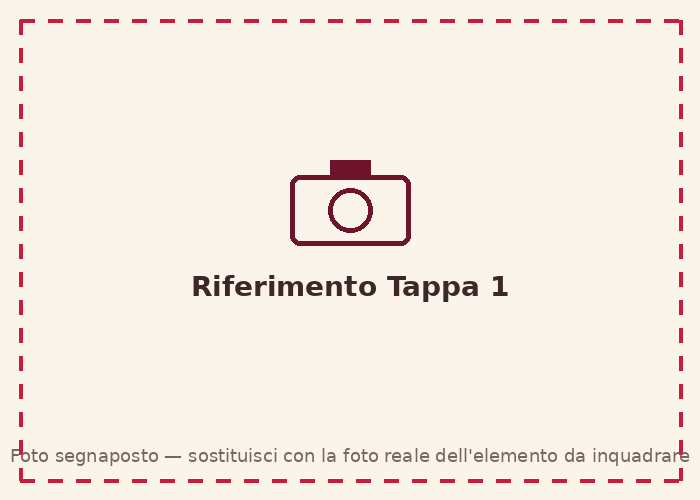
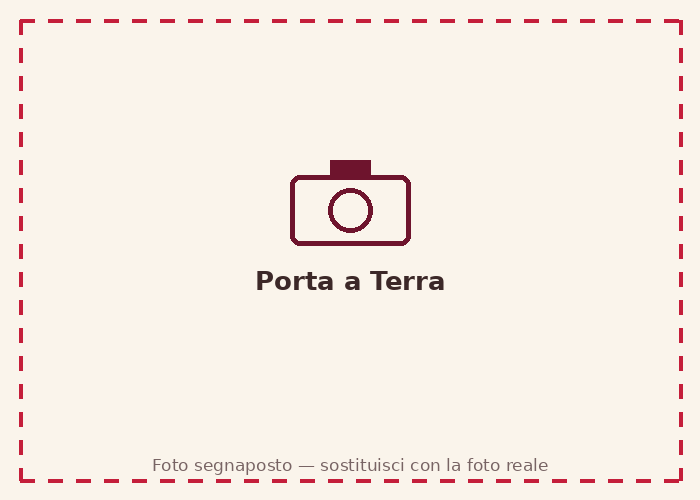
Inserisce le 4 tappe reali a Otranto con coordinate GPS vere
- aggiunta la Tappa 4 (Cattedrale) mancante: ora sono 4 tappe reali
  (Porta a Terra, Monumento eroi e martiri 1480, lampione sul
  Lungomare degli Eroi, Cattedrale) + traguardo finale (Aromisia)
- tutte le coordinate GPS sono ora quelle reali fornite dall'utente
  (CONFIG.testMode = false, nessuna più auto-calibrata)
- la Tappa 1 non ha percorso a mappa: si trova solo con l'indovinello
  iniziale, come da disegno del percorso reale
- testi degli indizi inseriti e corretti leggermente (punteggiatura/
  refusi) rispetto alle bozze fornite
- rigenerati i placeholder di percorso (4 tratti dopo la Tappa 1) e
  le foto di riferimento (ora etichettate con il soggetto reale,
  ancora da sostituire con le foto vere)
- aggiornato sw.js con i nuovi nomi file e bump di versione cache

Verificato con test end-to-end via Playwright simulando tutte e 5 le
coordinate reali in sequenza: tutte le tappe si sbloccano
correttamente, il nome del negozio non compare mai prima dello scan
finale riuscito.

Changed region(s): [[0.0, 0.9, 0.99, 0.96], [0.27, 0.54, 0.72, 0.6]]

diff --git a/js/data.js b/js/data.js
@@ -1,38 +1,35 @@
 // =============================================================
 // data.js — TUTTI I CONTENUTI DELLA CACCIA AL TESORO
 // =============================================================
-// Questo è l'UNICO file che andrà modificato per passare dai
-// contenuti di TEST a quelli REALI (indizi, coordinate, immagini
-// dei percorsi, negozio finale). Il resto del codice non cambia.
+// Questo è l'UNICO file che andrà modificato per i contenuti del
+// gioco (indizi, coordinate, immagini dei percorsi, negozio finale).
+// Il resto del codice non cambia.
 //
-// MODALITÀ TEST vs REALE
-// -----------------------
-// CONFIG.testMode = true  → ogni tappa che ha
-//     gps.useCurrentLocationAsTarget = true
-//   NON usa coordinate fisse: la prima volta che l'app chiede la
-//   posizione in quella tappa, "fotografa" la posizione attuale e
-//   la userà come bersaglio per il controllo GPS di quella tappa
-//   in questa sessione. Così puoi testare TUTTO il flusso reale
-//   (permessi, GPS, fotocamera, animazioni, fallback) restando
-//   dove ti trovi ora, senza dover raggiungere i luoghi veri.
+// Percorso reale (Otranto):
+//   Indizio iniziale (nessuna mappa, solo l'indovinello) → Tappa 1
+//   (Porta a Terra) → mappa → Tappa 2 (Monumento eroi e martiri 1480)
+//   → mappa → Tappa 3 (lampione sul Lungomare degli Eroi) → mappa →
+//   Tappa 4 (Cattedrale) → mappa → Aromisia (traguardo/regalo).
 //
-// Quando potrai raggiungere i luoghi reali:
-//   1. Metti CONFIG.testMode = false
-//   2. Per ogni tappa, sostituisci gps: { useCurrentLocationAsTarget: true }
-//      con coordinate fisse, es: gps: { lat: 40.1495, lng: 18.4715, radius: 80 }
-//      (le coordinate si ottengono da Google Maps: tieni premuto sul
-//      punto esatto sulla mappa → appare "lat, lng" da copiare)
-//   3. Sostituisci le immagini in assets/images/ con i veri screenshot
-//      dei percorsi (stesso nome file, o cambia i path qui sotto)
-//   4. Scrivi i testi reali degli indizi
+// Ogni tappa ha un campo `hintImage`: è la foto mostrata SOLO quando
+// uno scan fallisce ("Sei proprio sicura? La signora Flethcher forse
+// ti consiglierebbe di cercare questo:"), come aiuto extra. Sono
+// ancora placeholder generati automaticamente — vanno sostituiti con
+// le foto reali (stesso nome file in assets/images/, oppure cambia i
+// path qui sotto).
+//
+// Le immagini in `routeImages` sono ancora placeholder: verranno
+// sostituite con i 4 screenshot reali di Google Maps (i "tratti" dopo
+// il primo indizio risolto).
 // =============================================================
 
 const CONFIG = {
-  testMode: true,
+  // Tutte le tappe hanno ormai coordinate reali fisse: modalità test
+  // (auto-calibrazione sulla posizione attuale) disattivata.
+  testMode: false,
   // Raggio di default (metri) entro cui il GPS "conferma" la tappa.
-  // Ampio di proposito: niente sopralluogo reale è stato fatto sui
-  // luoghi veri, quindi il controllo GPS è volutamente permissivo
-  // e non deve mai bloccare la sorpresa.
+  // Ampio di proposito: il controllo GPS è volutamente permissivo e
+  // non deve mai bloccare la sorpresa.
   defaultRadius: 80,
   coupleNames: "Per te",
 };
@@ -41,51 +38,62 @@ const TAPPE = [
   {
     id: 1,
     title: "Tappa 1",
+    // Nessuna mappa per questa prima tappa: è l'indizio di apertura,
+    // va trovata solo grazie all'indovinello.
     clue:
-      "Il vostro viaggio inizia da qui. Segui il percorso e raggiungi il primo punto: " +
-      "cerca un dettaglio ben preciso della strada, qualcosa che racconta una storia " +
-      "di altri tempi scolpita nella pietra.",
+      "C'è un ingresso, non lontano dagli alberi, che porta alla storia di un posto di " +
+      "mare pur partendo da un nome polveroso. Elementi diversi che si uniscono per " +
+      "creare una storia comune... chi ti ricorda?",
     targetLabel: "Il dettaglio da inquadrare",
     targetHint:
       "Inquadra bene l'elemento indicato dall'indizio: tienilo al centro del riquadro " +
       "e scatta quando è ben visibile e a fuoco.",
-    routeImages: ["assets/images/tratto-0-1.png"],
+    routeImages: [],
     hintImage: "assets/images/tappa1-riferimento.png",
-    // Coordinata reale di test fornita dall'utente (non più auto-calibrata).
-    // NB: raggio ridotto a 5m SOLO per provare sul campo il messaggio di
-    // "riprova" — prima dell'evento vero va riportato a un valore ampio
-    // (60-100m), vedi nota in CONFIG.defaultRadius più sopra.
-    gps: { lat: 40.379800, lng: 17.961010, radius: 5 },
+    gps: { lat: 40.14640176241202, lng: 18.490193677702766, radius: 80 },
   },
   {
     id: 2,
     title: "Tappa 2",
     clue:
-      "Ben fatto! Ora segui il nuovo percorso: la prossima tappa nasconde un altro " +
-      "piccolo segreto lungo la strada, tienilo d'occhio.",
+      "Fu lunga la lotta contro il Pascià, ma pur sconfitti li ricordiamo, perché alla " +
+      "fine ci hanno creduto. Sconfitte, vittorie, difficoltà: tutto costruisce la " +
+      "memoria della nostra vita insieme.",
     targetLabel: "Il dettaglio da inquadrare",
     targetHint: "Anche qui: inquadra bene l'elemento al centro e scatta.",
     routeImages: ["assets/images/tratto-1-2.png"],
     hintImage: "assets/images/tappa2-riferimento.png",
-    gps: { useCurrentLocationAsTarget: true, radius: 80 },
+    gps: { lat: 40.14686328063995, lng: 18.49063147061505, radius: 80 },
   },
   {
     id: 3,
     title: "Tappa 3",
     clue:
-      "Ultima tappa prima del traguardo. Segui il percorso fino all'ultimo dettaglio " +
-      "da fotografare.",
+      "È l'ultima fonte di luce che osserva la distesa di blu. La strada finisce, ma ti " +
+      "puoi fermare ad ammirare le innumerevoli possibilità che lui illumina.",
     targetLabel: "Il dettaglio da inquadrare",
-    targetHint: "Ultimo scatto: inquadra bene e conferma.",
+    targetHint: "Inquadra bene l'elemento al centro e scatta.",
     routeImages: ["assets/images/tratto-2-3.png"],
     hintImage: "assets/images/tappa3-riferimento.png",
-    gps: { useCurrentLocationAsTarget: true, radius: 80 },
+    gps: { lat: 40.14655642930042, lng: 18.49156803696568, radius: 80 },
+  },
+  {
+    id: 4,
+    title: "Tappa 4",
+    clue:
+      "Una vita raccolta in un luogo sacro. Un albero che la racconta. Inquadra " +
+      "l'ingresso e, se vuoi, ricorda tutta quella passata insieme.",
+    targetLabel: "Il dettaglio da inquadrare",
+    targetHint: "Ultimo scatto prima del traguardo: inquadra bene e conferma.",
+    routeImages: ["assets/images/tratto-3-4.png"],
+    hintImage: "assets/images/tappa4-riferimento.png",
+    gps: { lat: 40.14577479315327, lng: 18.49073716764695, radius: 80 },
   },
 ];
 
 const FINALE = {
   id: "finale",
-  routeImages: ["assets/images/tratto-3-negozio.png"],
+  routeImages: ["assets/images/tratto-4-negozio.png"],
   routeTitle: "Il traguardo",
   routeClue: "Ultimo tratto: segui il percorso fino al traguardo finale.",
   targetLabel: "Il traguardo",
@@ -93,8 +101,8 @@ const FINALE = {
     "Sei arrivata? Inquadra bene l'insegna del locale davanti a te per confermare di " +
     "essere nel posto giusto.",
   hintImage: "assets/images/finale-riferimento.png",
-  // Stesso meccanismo soft delle altre tappe: non blocca mai il gioco.
-  gps: { useCurrentLocationAsTarget: true, radius: 80 },
+  // Coordinata reale di Aromisia.
+  gps: { lat: 40.1456941285958, lng: 18.491972559712774, radius: 80 },
   revealTitle: "Sei arrivata da Aromisia!",
   revealMessage:
     "Hai seguito ogni indizio, hai trovato ogni dettaglio nascosto: il tuo regalo ti sta " +

diff --git a/sw.js b/sw.js
@@ -3,7 +3,7 @@
 // Strategia: cache-first per gli asset noti, network-first con
 // fallback alla cache per tutto il resto.
 
-const CACHE_NAME = "caccia-tesoro-v1";
+const CACHE_NAME = "caccia-tesoro-v2";
 
 const CORE_ASSETS = [
   "./",
@@ -16,10 +16,15 @@ const CORE_ASSETS = [
   "./manifest.webmanifest",
   "./assets/icons/icon-192.png",
   "./assets/icons/icon-512.png",
-  "./assets/images/tratto-0-1.png",
   "./assets/images/tratto-1-2.png",
   "./assets/images/tratto-2-3.png",
-  "./assets/images/tratto-3-negozio.png",
+  "./assets/images/tratto-3-4.png",
+  "./assets/images/tratto-4-negozio.png",
+  "./assets/images/tappa1-riferimento.png",
+  "./assets/images/tappa2-riferimento.png",
+  "./assets/images/tappa3-riferimento.png",
+  "./assets/images/tappa4-riferimento.png",
+  "./assets/images/finale-riferimento.png",
 ];
 
 self.addEventListener("install", (event) => {

diff --git a/README.md b/README.md
@@ -1,64 +1,59 @@
 # Caccia al Tesoro — Web App d'Anniversario
 
-Web app (PWA) mobile per guidare qualcuno attraverso una caccia al tesoro in 3 tappe:
-indizio → percorso → "inquadra" un dettaglio della strada con la fotocamera → nuovo
-percorso, fino alla tappa finale (il negozio con il regalo).
+Web app (PWA) mobile per guidare qualcuno attraverso una caccia al tesoro a Otranto:
+indizio iniziale (senza mappa) → Tappa 1 (Porta a Terra) → mappa → Tappa 2 (Monumento
+eroi e martiri 1480) → mappa → Tappa 3 (lampione sul Lungomare degli Eroi) → mappa →
+Tappa 4 (Cattedrale) → mappa → traguardo finale, il negozio Aromisia con il regalo.
 
-Nessun build tool: HTML/CSS/JS puro, pensato per girare su GitHub Pages.
+Ad ogni tappa si "inquadra" un dettaglio della strada con la fotocamera per sbloccare la
+successiva.
+
+Nessun build tool: HTML/CSS/JS puro, pubblicato su GitHub Pages tramite il workflow in
+`.github/workflows/pages.yml`.
 
 ## Come funziona lo sblocco delle tappe
 
 Non c'è vero riconoscimento immagine via intelligenza artificiale (sarebbe fragile
 proprio nel momento che conta di più). Lo sblocco si basa su:
 
-1. **GPS "soft"** — se il telefono è entro un certo raggio dalle coordinate della tappa,
-   la posizione è considerata confermata. Il controllo **non blocca mai** il gioco: se il
-   permesso è negato o il segnale è impreciso, si va comunque avanti.
+1. **GPS "soft"** — se il telefono è entro un certo raggio dalle coordinate reali della
+   tappa (attualmente 80 metri, volutamente generoso), la posizione è considerata
+   confermata. Il controllo **non blocca mai** il gioco: se il permesso è negato o il
+   segnale è impreciso, resta comunque possibile sbloccare tramite il fallback di aiuto.
 2. **Euristica sull'inquadratura** (`js/camera.js`) — verifica solo che la fotocamera stia
    inquadrando *qualcosa* (non uno schermo nero o un dito sull'obiettivo), per rinforzare
    la sensazione di scatto/riconoscimento senza vero object detection.
-3. **Fallback "hai bisogno di aiuto?"** — dopo un paio di tentativi o 20 secondi sulla
+3. **Messaggio + foto di aiuto sul fallimento** — se lo scan non va a buon fine, compare
+   "Sei proprio sicura? La signora Flethcher forse ti consiglierebbe di cercare questo:"
+   insieme a una foto di riferimento dell'elemento (campo `hintImage` di ogni tappa).
+4. **Fallback "hai bisogno di aiuto?"** — dopo un paio di tentativi o 20 secondi sulla
    schermata di scatto, compare sempre un link che sblocca comunque la tappa. Serve da
    rete di sicurezza per non rovinare la sorpresa in caso di imprevisti dal vivo.
 
-## Modalità TEST (adesso) vs contenuti REALI (dopo)
+## Contenuti — `js/data.js`
 
 Tutto il contenuto del gioco vive in **`js/data.js`**, l'unico file da modificare.
 
-Al momento `CONFIG.testMode = true` e ogni tappa ha `gps.useCurrentLocationAsTarget: true`:
-la prima volta che l'app chiede la posizione per una tappa, usa la posizione attuale del
-telefono come bersaglio per quella tappa in quella sessione di gioco. Così puoi testare
-**tutto il flusso reale** (permessi, GPS, fotocamera, animazioni, fallback) restando dove ti
-trovi ora, senza dover raggiungere i luoghi veri.
+Le coordinate GPS di tutte le tappe e del negozio finale sono già quelle **reali**
+(`CONFIG.testMode = false`). Cosa manca ancora, da sostituire quando disponibile:
 
-Quando potrai raggiungere le location reali:
+1. **Screenshot dei percorsi** (`routeImages` di ogni tappa e di `FINALE`) — sono ancora
+   placeholder generati automaticamente in `assets/images/tratto-*.png`. Vanno sostituiti
+   con i 4 screenshot reali di Google Maps (i tratti dopo la Tappa 1, che invece non ha
+   mappa: va trovata solo con l'indovinello iniziale).
+2. **Foto di riferimento** (`hintImage` di ogni tappa e di `FINALE`) — sono ancora
+   placeholder in `assets/images/tappaN-riferimento.png` / `finale-riferimento.png`.
+   Vanno sostituite con le foto reali degli elementi da inquadrare (stesso nome file, o
+   cambia i path in `data.js`). Nota: queste foto compaiono **solo** quando uno scan
+   fallisce, come aiuto — non vengono mai mostrate prima.
+3. I testi degli indizi (`clue`) sono già stati inseriti e leggermente corretti
+   (punteggiatura/refusi) rispetto alle bozze fornite: rileggili e adattali se qualcosa
+   non suona giusto.
 
-1. In `js/data.js` metti `CONFIG.testMode = false`.
-2. Per ogni tappa, sostituisci
-   ```js
-   gps: { useCurrentLocationAsTarget: true, radius: 80 }
-   ```
-   con le coordinate reali, ad esempio:
-   ```js
-   gps: { lat: 40.1495, lng: 18.4715, radius: 80 }
-   ```
-   Le coordinate si ottengono da Google Maps: tieni premuto sul punto esatto sulla mappa,
-   compare "lat, lng" da copiare. Il raggio è in metri: tienilo generoso (60–100m) perché
-   non è stato fatto un sopralluogo fisico e il GPS in centri storici/vicoli può essere
-   impreciso.
-3. Scrivi i testi reali degli indizi (`clue`, `targetLabel`, `targetHint`).
-   Ogni tappa ha anche un campo `hintImage`: è la foto mostrata quando lo
-   scan fallisce ("Sei proprio sicura? La signora Flethcher forse ti
-   consiglierebbe di cercare questo:") — sostituisci i placeholder in
-   `assets/images/` con le foto reali degli elementi da inquadrare.
-   Nota: la Tappa 1 ha il raggio GPS a 5 metri solo per un test sul campo —
-   riportalo a un valore ampio (60-100m) prima dell'evento vero.
-4. Sostituisci le immagini placeholder in `assets/images/` con i veri screenshot dei
-   percorsi (stesso nome file, oppure cambia i percorsi in `routeImages`).
-5. Compila `FINALE` con il percorso verso il negozio, i testi generici di percorso/scan
-   (`routeClue`, `targetHint`) e il messaggio di rivelazione (`revealTitle`,
-   `revealMessage`) — questi ultimi sono gli unici punti dove compare il nome del
-   negozio: il resto del flusso non lo anticipa mai, nemmeno durante lo scan finale.
+Il nome del negozio finale ("Aromisia") compare **solo** in `FINALE.revealTitle` /
+`FINALE.revealMessage`, mostrati esclusivamente dopo lo scan finale riuscito: il resto
+del flusso (percorso e scan davanti al negozio) parla solo genericamente di "il
+traguardo", per non anticipare la sorpresa.
 
 Per azzerare il progresso salvato durante un test, apri la console del browser e lancia:
 ```js
@@ -74,21 +69,18 @@ python3 -m http.server 8080
 Poi apri `http://localhost:8080` su un browser desktop.
 
 **Attenzione:** fotocamera e geolocalizzazione richiedono un *contesto sicuro* (HTTPS, o
-`localhost` sullo stesso dispositivo). Per testare davvero su uno smartphone reale, il modo
-più semplice è pubblicare su GitHub Pages (vedi sotto) e aprire l'URL `https://...` dal
-telefono.
+`localhost` sullo stesso dispositivo). Per testare davvero su uno smartphone reale, apri
+l'URL pubblicato su GitHub Pages dal telefono.
 
 ## Pubblicazione su GitHub Pages
 
-1. Fai il merge di questo branch su `main` (o apri una Pull Request).
-2. Nel repository su GitHub: **Settings → Pages** → sotto "Build and deployment" scegli
-   "Deploy from a branch", branch `main`, cartella `/ (root)`.
-3. Dopo qualche minuto l'app sarà raggiungibile su
-   `https://<utente>.github.io/<repo>/`.
-4. Apri quell'URL dal telefono, concedi i permessi di fotocamera e posizione quando
-   richiesti, e prova l'intero percorso.
-5. Da Safari/Chrome mobile puoi usare "Aggiungi a schermata Home" per farla comportare
-   come un'app installata.
+Il deploy è automatico: ogni push sul branch `claude/treasure-hunt-camera-app-u0rsda`
+fa scattare il workflow `.github/workflows/pages.yml`, che pubblica il sito in 1-2
+minuti su `https://turk162.github.io/anniversatio/`. Nessuna azione manuale necessaria
+dopo il primo setup (Settings → Pages → Source: "GitHub Actions").
+
+Da Safari/Chrome mobile si può usare "Aggiungi a schermata Home" per farla comportare
+come un'app installata.
 
 ## Struttura dei file
 
@@ -96,12 +88,13 @@ telefono.
 index.html              shell della SPA
 css/style.css            tema visivo
 js/data.js               CONTENUTI del gioco (indizi, GPS, immagini) — file da editare
-js/geo.js                geolocalizzazione, calcolo distanza, calibrazione modalità test
+js/geo.js                geolocalizzazione, calcolo distanza
 js/camera.js             gestione fotocamera ed euristica sull'inquadratura
 js/app.js                macchina a stati che pilota le schermate
 manifest.webmanifest     manifest PWA ("aggiungi a schermata Home")
 sw.js                    service worker per funzionare anche con connessione scarsa
-assets/images/           screenshot dei percorsi (ora placeholder, da sostituire)
+.github/workflows/pages.yml   deploy automatico su GitHub Pages ad ogni push
+assets/images/           screenshot dei percorsi e foto di riferimento (placeholder, da sostituire)
 assets/icons/            icone della PWA
 ```
 
